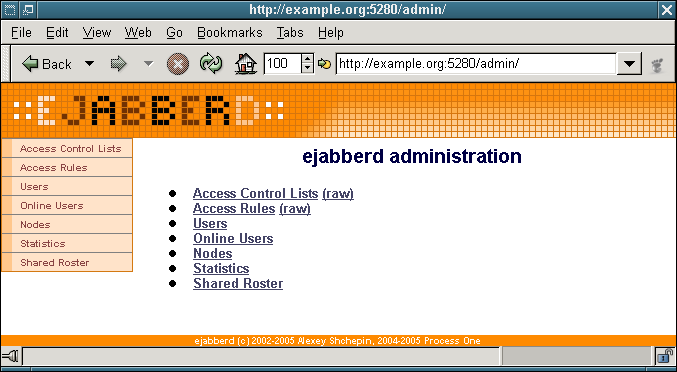
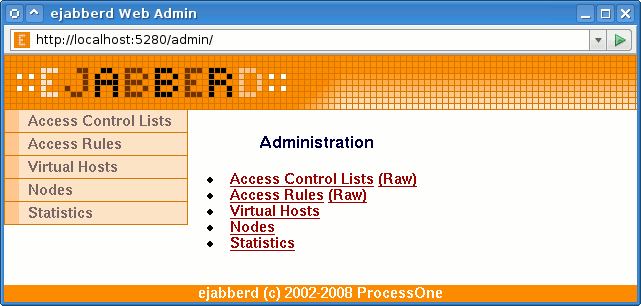
* doc/webadmmain.png: Updated to ejabberd 2.0.0 	* doc/webadmmainru.png: Likewise
* doc/disco.png: Removed because not used
	
	* doc/guide.tex: Fix Latex reference to webadmin section. Update
	explanation of screenshots. Update xmpp addresses of Mickael
	Remond and Sander Devrieze.
	* doc/guide.html: Likewise

	* doc/Makefile: Remove the Hevea deprecated option -noiso
	* doc/guide.html: Likewise
	* doc/dev.html: Likewise
	* doc/features.html: Likewise

git-svn-id: https://svn.process-one.net/ejabberd/trunk@1261 1613c18e-e6f4-0310-972c-c3fad1d2be73

diff --git a/doc/guide.html b/doc/guide.html
@@ -76,7 +76,7 @@ SPAN{width:20%; float:right; text-align:left; margin-left:auto;}
 </STYLE>
 </HEAD>
 <BODY >
-<!--HEVEA command line is: /usr/bin/hevea -fix -noiso -pedantic guide.tex -->
+<!--HEVEA command line is: /usr/bin/hevea -fix -pedantic guide.tex -->
 <!--CUT DEF chapter 1 --><P><A NAME="titlepage"></A>
 
 </P><TABLE CLASS="title"><TR><TD><H1 CLASS="titlemain">
@@ -773,7 +773,7 @@ Incoming and outgoing connections of remote Jabber servers are denied,
 only two servers can connect: "jabber.example.org" and "example.com".
 </LI><LI CLASS="li-itemize">Port 5280 is serving the Web Admin and the HTTP Polling service. Note
 that it is also possible to serve them on different ports. The second
-example in section&#XA0;<A HREF="#webinterface">??</A> shows how exactly this can be done.
+example in section&#XA0;<A HREF="#webadmin">4.2</A> shows how exactly this can be done.
 </LI><LI CLASS="li-itemize">All users except for the administrators have a traffic of limit 
 1,000&#XA0;Bytes/second
 </LI><LI CLASS="li-itemize">The
@@ -3118,14 +3118,13 @@ Figure&#XA0;<A HREF="#fig:discorus">A.1</A>, for example, shows the reply to the
 <DIV CLASS="caption"><TABLE CELLSPACING=6 CELLPADDING=0><TR><TD VALIGN=top ALIGN=left>Figure A.1: Service Discovery when <TT>xml:lang=&#X2019;ru&#X2019;</TT></TD></TR>
 </TABLE></DIV>
 <A NAME="fig:discorus"></A>
-<DIV CLASS="center"><HR WIDTH="80%" SIZE=2></DIV></DIV></BLOCKQUOTE><P>The Web Admin also supports the <CODE>Accept-Language</CODE> HTTP header (compare
-figure&#XA0;<A HREF="#fig:webadmmainru">A.2</A> with figure&#XA0;<A HREF="#fig:webadmmain">4.1</A>)</P><BLOCKQUOTE CLASS="figure"><DIV CLASS="center"><DIV CLASS="center"><HR WIDTH="80%" SIZE=2></DIV>
+<DIV CLASS="center"><HR WIDTH="80%" SIZE=2></DIV></DIV></BLOCKQUOTE><P>The Web Admin also supports the <CODE>Accept-Language</CODE> HTTP header.</P><BLOCKQUOTE CLASS="figure"><DIV CLASS="center"><DIV CLASS="center"><HR WIDTH="80%" SIZE=2></DIV>
 
 <IMG SRC="webadmmainru.png" ALT="webadmmainru.png">
 
 
-<DIV CLASS="caption"><TABLE CELLSPACING=6 CELLPADDING=0><TR><TD VALIGN=top ALIGN=left>Figure A.2: Top page from the Web Admin with HTTP header
-&#X2018;Accept-Language: ru&#X2019;</TD></TR>
+<DIV CLASS="caption"><TABLE CELLSPACING=6 CELLPADDING=0><TR><TD VALIGN=top ALIGN=left>Figure A.2: Web Admin showing a virtual host when the web browser provides the 
+HTTP header &#X2018;Accept-Language: ru&#X2019;</TD></TR>
 </TABLE></DIV>
 <A NAME="fig:webadmmainru"></A>
 <DIV CLASS="center"><HR WIDTH="80%" SIZE=2></DIV></DIV></BLOCKQUOTE><!--TOC chapter Release Notes-->
@@ -3141,8 +3140,8 @@ Alexey Shchepin (<A HREF="xmpp:aleksey@jabber.ru"><TT>xmpp:aleksey@jabber.ru</TT
 </LI><LI CLASS="li-itemize">Evgeniy Khramtsov (<A HREF="xmpp:xram@jabber.ru"><TT>xmpp:xram@jabber.ru</TT></A>)
 </LI><LI CLASS="li-itemize">Florian Zumbiehl (<A HREF="xmpp:florz@florz.de"><TT>xmpp:florz@florz.de</TT></A>)
 </LI><LI CLASS="li-itemize">Michael Grigutsch (<A HREF="xmpp:migri@jabber.i-pobox.net"><TT>xmpp:migri@jabber.i-pobox.net</TT></A>)
-</LI><LI CLASS="li-itemize">Mickael Remond (<A HREF="xmpp:mremond@erlang-projects.org"><TT>xmpp:mremond@erlang-projects.org</TT></A>)
-</LI><LI CLASS="li-itemize">Sander Devrieze (<A HREF="xmpp:sander@devrieze.dyndns.org"><TT>xmpp:sander@devrieze.dyndns.org</TT></A>)
+</LI><LI CLASS="li-itemize">Mickael Remond (<A HREF="xmpp:mremond@process-one.net"><TT>xmpp:mremond@process-one.net</TT></A>)
+</LI><LI CLASS="li-itemize">Sander Devrieze (<A HREF="xmpp:s.devrieze@gmail.com"><TT>xmpp:s.devrieze@gmail.com</TT></A>)
 </LI><LI CLASS="li-itemize">Sergei Golovan (<A HREF="xmpp:sgolovan@nes.ru"><TT>xmpp:sgolovan@nes.ru</TT></A>)
 </LI><LI CLASS="li-itemize">Vsevolod Pelipas (<A HREF="xmpp:vsevoload@jabber.ru"><TT>xmpp:vsevoload@jabber.ru</TT></A>)
 </LI></UL><!--TOC chapter Copyright Information-->

diff --git a/doc/features.html b/doc/features.html
@@ -47,7 +47,7 @@ SPAN{width:20%; float:right; text-align:left; margin-left:auto;}
 </STYLE>
 </HEAD>
 <BODY >
-<!--HEVEA command line is: /usr/bin/hevea -fix -noiso -pedantic features.tex -->
+<!--HEVEA command line is: /usr/bin/hevea -fix -pedantic features.tex -->
 <!--CUT DEF section 1 --><P><A NAME="titlepage"></A>
 
 </P><TABLE CLASS="title"><TR><TD><H1 CLASS="titlemain">Ejabberd 2.1.0-alpha Feature Sheet</H1><H3 CLASS="titlerest">Sander Devrieze<BR>

diff --git a/doc/dev.html b/doc/dev.html
@@ -46,7 +46,7 @@ TD P{margin:0px;}
 </STYLE>
 </HEAD>
 <BODY >
-<!--HEVEA command line is: /usr/bin/hevea -fix -noiso -pedantic dev.tex -->
+<!--HEVEA command line is: /usr/bin/hevea -fix -pedantic dev.tex -->
 <!--CUT DEF section 1 --><P><A NAME="titlepage"></A>
 
 </P><TABLE CLASS="title"><TR><TD><H1 CLASS="titlemain">Ejabberd 2.1.0-alpha Developers Guide</H1><H3 CLASS="titlerest">Alexey Shchepin<BR>

diff --git a/doc/guide.tex b/doc/guide.tex
@@ -844,7 +844,7 @@ In this example, the following configuration defines that:
   only two servers can connect: "jabber.example.org" and "example.com".
 \item Port 5280 is serving the Web Admin and the HTTP Polling service. Note
   that it is also possible to serve them on different ports. The second
-  example in section~\ref{webinterface} shows how exactly this can be done.
+  example in section~\ref{webadmin} shows how exactly this can be done.
 \item All users except for the administrators have a traffic of limit 
   1,000\,Bytes/second
 \item \ind{transports!AIM}The
@@ -3990,14 +3990,13 @@ Figure~\ref{fig:discorus}, for example, shows the reply to the following query:
   \label{fig:discorus}
 \end{figure}
 
-The Web Admin also supports the \verb|Accept-Language| HTTP header (compare
-figure~\ref{fig:webadmmainru} with figure~\ref{fig:webadmmain})
+The Web Admin also supports the \verb|Accept-Language| HTTP header.
 
 \begin{figure}[htbp]
   \centering
   \insimg{webadmmainru.png}
-  \caption{Top page from the Web Admin with HTTP header
-    `Accept-Language: ru'}
+  \caption{Web Admin showing a virtual host when the web browser provides the 
+     HTTP header `Accept-Language: ru'}
   \label{fig:webadmmainru}
 \end{figure}
 
@@ -4021,8 +4020,8 @@ Thanks to all people who contributed to this guide:
 \item Evgeniy Khramtsov (\ahrefurl{xmpp:xram@jabber.ru})
 \item Florian Zumbiehl (\ahrefurl{xmpp:florz@florz.de})
 \item Michael Grigutsch (\ahrefurl{xmpp:migri@jabber.i-pobox.net})
-\item Mickael Remond (\ahrefurl{xmpp:mremond@erlang-projects.org})
-\item Sander Devrieze (\ahrefurl{xmpp:sander@devrieze.dyndns.org})
+\item Mickael Remond (\ahrefurl{xmpp:mremond@process-one.net})
+\item Sander Devrieze (\ahrefurl{xmpp:s.devrieze@gmail.com})
 \item Sergei Golovan (\ahrefurl{xmpp:sgolovan@nes.ru})
 \item Vsevolod Pelipas (\ahrefurl{xmpp:vsevoload@jabber.ru})
 \end{itemize}
